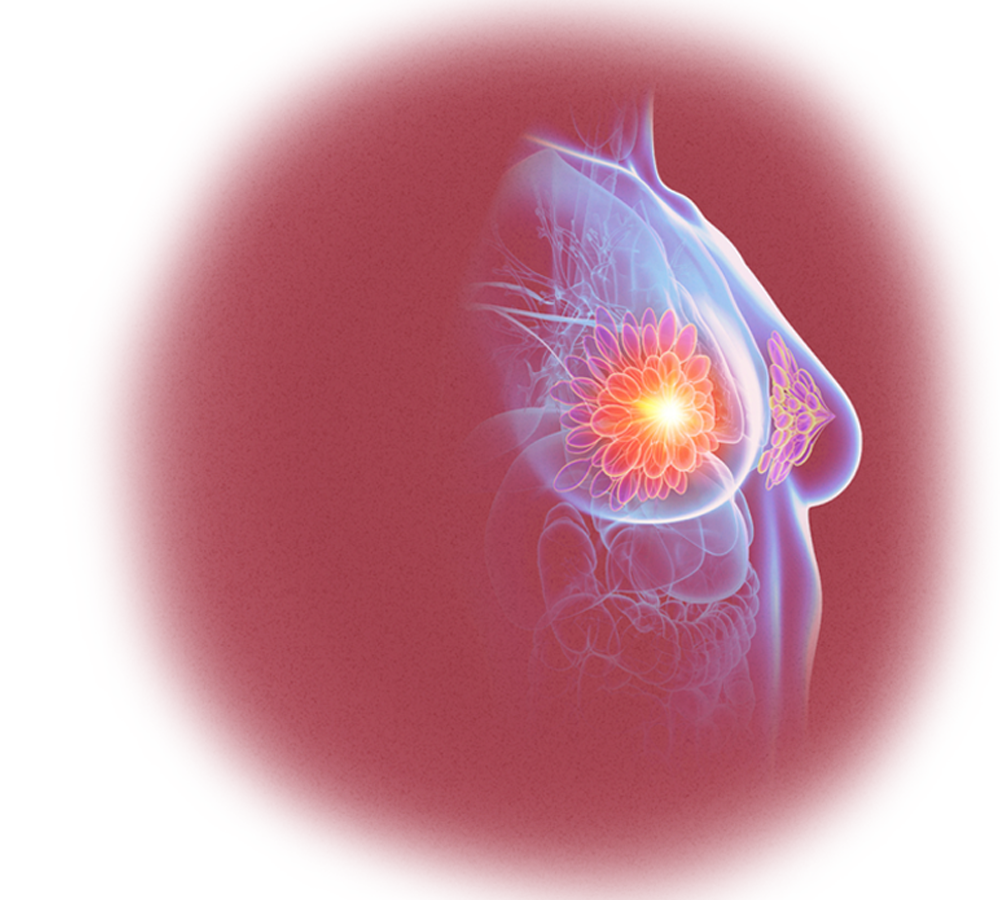
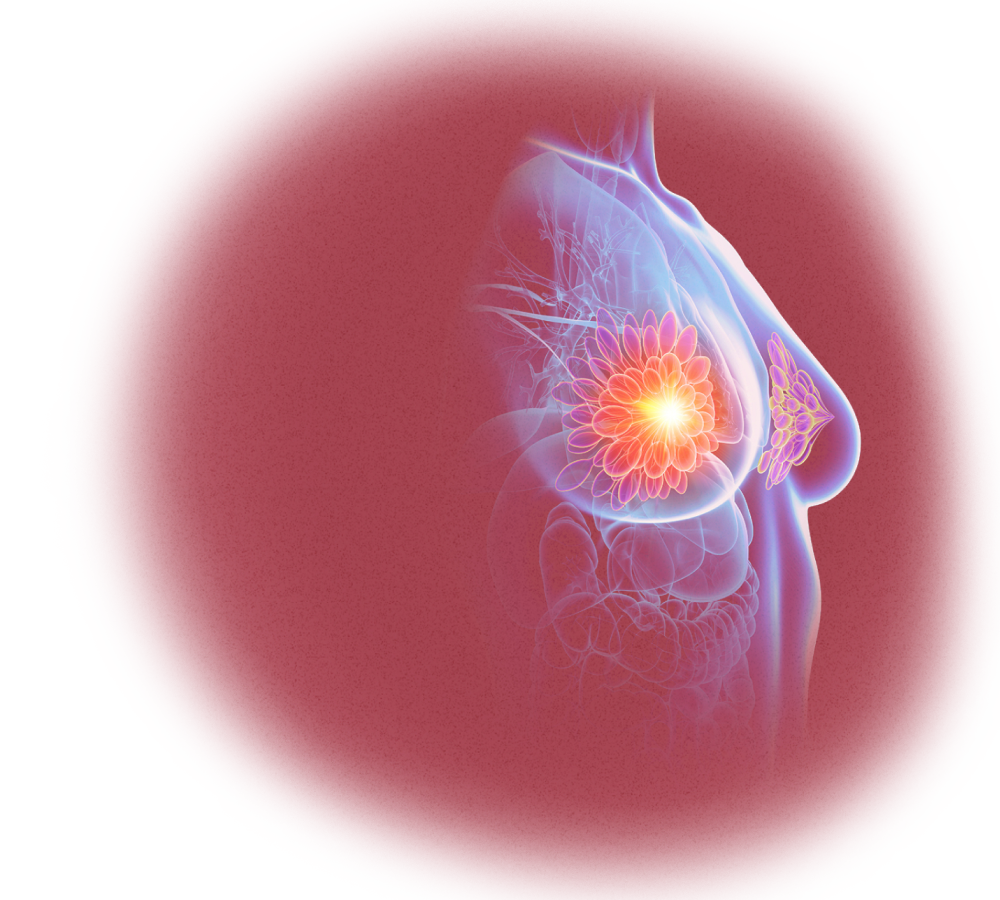
fix main image

diff --git a/dist/css/style.css b/dist/css/style.css
@@ -812,30 +812,30 @@ body {
 }
 @media (max-width: 1024px) {
   .image-vision__img img {
-    width: 700px;
-    height: 800px;
-    top: -150px;
-    left: -110px;
+    width: 600px;
+    height: 700px;
+    top: -110px;
+    left: -50px;
   }
 }
 @media (max-width: 1024px) and (max-width: 1250px) {
   .image-vision__img img {
-    width: calc(600px + 100 * ((100vw - 320px) / 930));
+    width: calc(600px + 0 * ((100vw - 320px) / 930));
   }
 }
 @media (max-width: 1024px) and (max-width: 1250px) {
   .image-vision__img img {
-    height: calc(600px + 200 * ((100vw - 320px) / 930));
+    height: calc(600px + 100 * ((100vw - 320px) / 930));
   }
 }
 @media (max-width: 1024px) and (max-width: 1250px) {
   .image-vision__img img {
-    top: calc(-80px + -70 * ((100vw - 320px) / 930));
+    top: calc(-80px + -30 * ((100vw - 320px) / 930));
   }
 }
 @media (max-width: 1024px) and (max-width: 1250px) {
   .image-vision__img img {
-    left: calc(-240px + 130 * ((100vw - 320px) / 930));
+    left: calc(-230px + 180 * ((100vw - 320px) / 930));
   }
 }
 

diff --git a/dist/css/style.min.css b/dist/css/style.min.css
@@ -812,30 +812,30 @@ body {
 }
 @media (max-width: 1024px) {
   .image-vision__img img {
-    width: 700px;
-    height: 800px;
-    top: -150px;
-    left: -110px;
+    width: 600px;
+    height: 700px;
+    top: -110px;
+    left: -50px;
   }
 }
 @media (max-width: 1024px) and (max-width: 1250px) {
   .image-vision__img img {
-    width: calc(600px + 100 * ((100vw - 320px) / 930));
+    width: calc(600px + 0 * ((100vw - 320px) / 930));
   }
 }
 @media (max-width: 1024px) and (max-width: 1250px) {
   .image-vision__img img {
-    height: calc(600px + 200 * ((100vw - 320px) / 930));
+    height: calc(600px + 100 * ((100vw - 320px) / 930));
   }
 }
 @media (max-width: 1024px) and (max-width: 1250px) {
   .image-vision__img img {
-    top: calc(-80px + -70 * ((100vw - 320px) / 930));
+    top: calc(-80px + -30 * ((100vw - 320px) / 930));
   }
 }
 @media (max-width: 1024px) and (max-width: 1250px) {
   .image-vision__img img {
-    left: calc(-240px + 130 * ((100vw - 320px) / 930));
+    left: calc(-230px + 180 * ((100vw - 320px) / 930));
   }
 }
 

diff --git a/src/scss/sections/vision.scss b/src/scss/sections/vision.scss
@@ -85,11 +85,11 @@
       @include fit('height', 920, 200, 1);
 
       @include laptop {
-        @include fit('width', 700, 600, 1);
-        @include fit('height', 800, 600, 1);
+        @include fit('width', 600, 600, 1);
+        @include fit('height', 700, 600, 1);
 
-        @include fit('top', -150, -80, 1);
-        @include fit('left', -110, -240, 1);
+        @include fit('top', -110, -80, 1);
+        @include fit('left', -50, -230, 1);
       }
     }
   }
